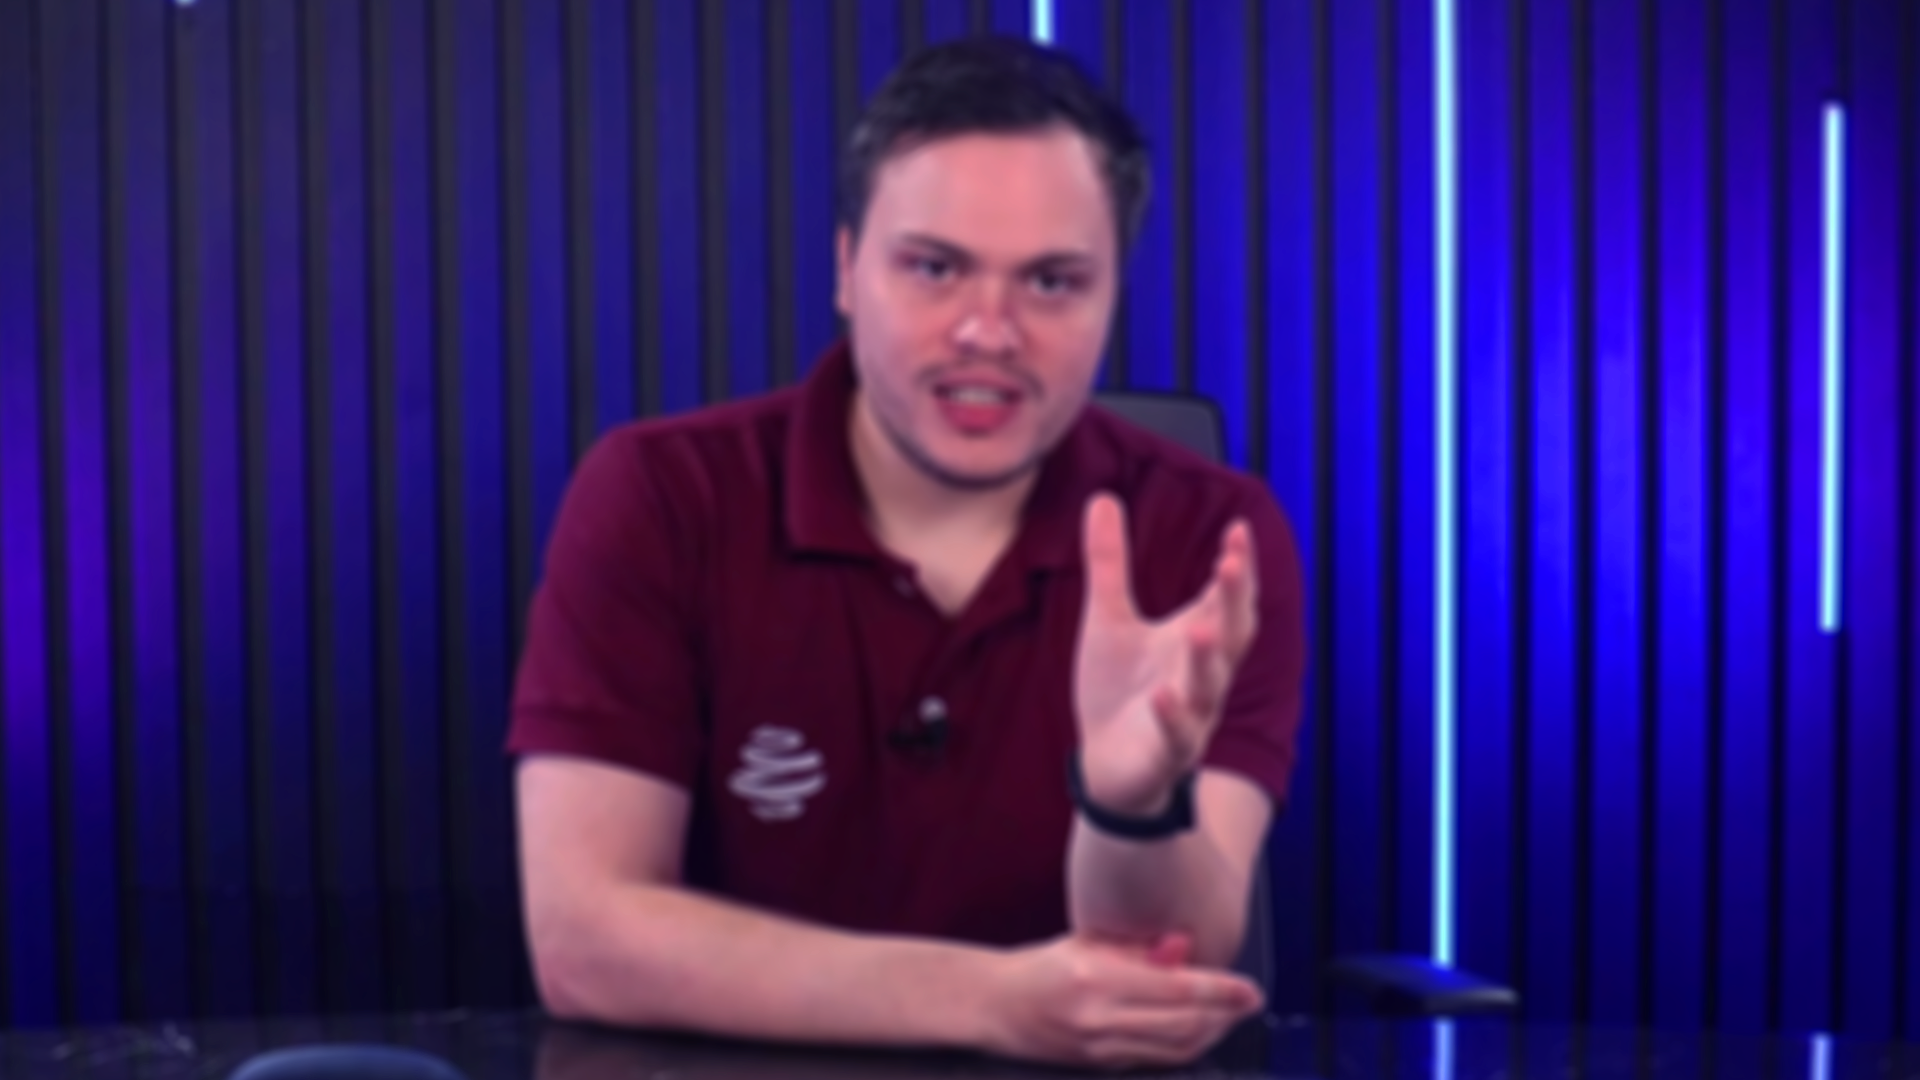
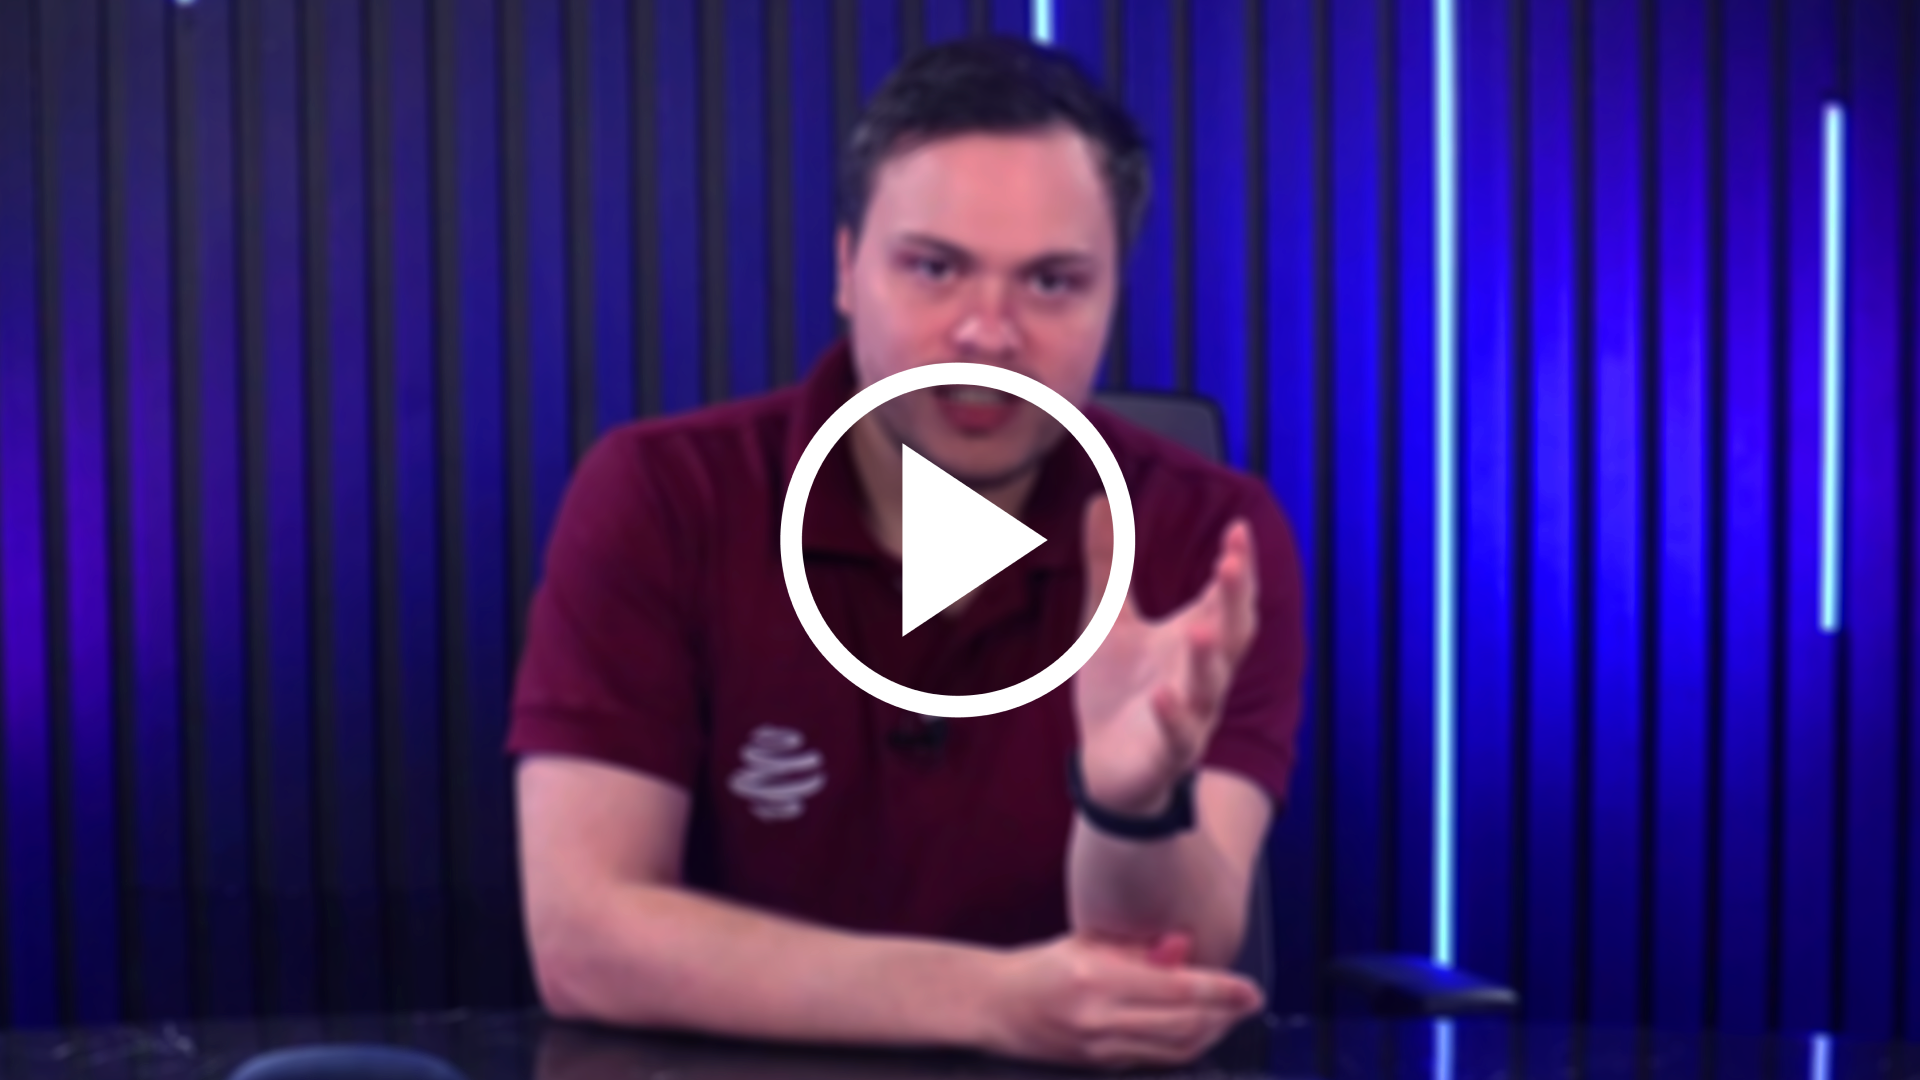
change

Changed region(s): [[0.4062, 0.3361, 0.5938, 0.6722]]

diff --git a/app/components/Header/Header.tsx b/app/components/Header/Header.tsx
@@ -1,11 +1,12 @@
 "use client";
 import Logo from "@/app/components/Logo";
 import Image from "next/image";
-import { useState } from "react";
+import { useRef, useState } from "react";
 import Bg from "../Bg";
 const vimeoUrl = "https://player.vimeo.com/video/865690031?h=2678665bdb";
 const Header = () => {
   const [videoLoaded, setVideoLoaded] = useState(false);
+  const refVideo = useRef<HTMLIFrameElement>(null);
   return (
     <header className="overflow-hidden pb-20 relative px-4 background-header h-fit flex flex-col items-center pt-[20px] isolate">
       <Bg
@@ -33,33 +34,8 @@ const Header = () => {
         </span>
       </h1>
       <div className="max-w-[700px] animation-h1 bg-white bg-opacity-10 rounded-xl isolate group overflow-hidden w-full relative aspect-video mt-6 grid">
-        {!videoLoaded && (
-          <div
-            role="status"
-            className="absolute top-1/2 left-1/2 -z-20 transform -translate-x-1/2 -translate-y-1/2"
-          >
-            <svg
-              aria-hidden="true"
-              className="w-12 h-12 text-gray-200 animate-spin dark:text-gray-600 fill-fuchsia-400"
-              viewBox="0 0 100 101"
-              fill="none"
-              xmlns="http://www.w3.org/2000/svg"
-            >
-              <path
-                d="M100 50.5908C100 78.2051 77.6142 100.591 50 100.591C22.3858 100.591 0 78.2051 0 50.5908C0 22.9766 22.3858 0.59082 50 0.59082C77.6142 0.59082 100 22.9766 100 50.5908ZM9.08144 50.5908C9.08144 73.1895 27.4013 91.5094 50 91.5094C72.5987 91.5094 90.9186 73.1895 90.9186 50.5908C90.9186 27.9921 72.5987 9.67226 50 9.67226C27.4013 9.67226 9.08144 27.9921 9.08144 50.5908Z"
-                fill="currentColor"
-              />
-              <path
-                d="M93.9676 39.0409C96.393 38.4038 97.8624 35.9116 97.0079 33.5539C95.2932 28.8227 92.871 24.3692 89.8167 20.348C85.8452 15.1192 80.8826 10.7238 75.2124 7.41289C69.5422 4.10194 63.2754 1.94025 56.7698 1.05124C51.7666 0.367541 46.6976 0.446843 41.7345 1.27873C39.2613 1.69328 37.813 4.19778 38.4501 6.62326C39.0873 9.04874 41.5694 10.4717 44.0505 10.1071C47.8511 9.54855 51.7191 9.52689 55.5402 10.0491C60.8642 10.7766 65.9928 12.5457 70.6331 15.2552C75.2735 17.9648 79.3347 21.5619 82.5849 25.841C84.9175 28.9121 86.7997 32.2913 88.1811 35.8758C89.083 38.2158 91.5421 39.6781 93.9676 39.0409Z"
-                fill="currentFill"
-              />
-            </svg>
-          </div>
-        )}
         <iframe
-          onLoad={() => {
-            setVideoLoaded(true);
-          }}
+          ref={refVideo}
           title="Vimeo Video"
           src={vimeoUrl}
           allow="fullscreen"
@@ -68,6 +44,26 @@ const Header = () => {
           allowFullScreen
           className="rounded-sm"
         />
+        {!videoLoaded && (
+          <div
+            onClick={() => {
+              setVideoLoaded(true);
+              if (refVideo.current) {
+                console.log('here')
+                var url = refVideo.current.src
+                refVideo.current.src = url + "&autoplay=1";
+              }
+            }}
+            className="absolute hover:scale-105 cursor-pointer transition-transform top-0 left-0 bg-slate-600 z-50 w-full h-full"
+          >
+            <Image
+              fill
+              src={"/bg_video.png"}
+              alt="Coelho medcof"
+              priority={true}
+            ></Image>
+          </div>
+        )}
       </div>
       <button className="bg-gradient-to-b cursor-pointer from-fuchsia-400 to-violet-500 hover:bg-gradient-to-l rounded-lg mt-10 shadow px-6 py-3 hover:scale-105 transition-all">
         <span className="text-white text-[18px] sm:text-[19px] md:text-[20px] lg:text-[20px] xl:text-[21px] 2xl:text-[22px]  font-normal font-inter leading-normal">

diff --git a/app/components/Ia/Ia.tsx b/app/components/Ia/Ia.tsx
@@ -21,11 +21,11 @@ const Ia = () => {
       </p>
 
       <div className="bg-slate-500 w-full max-w-[1024px] mt-10 grid justify-center lg:grid-cols-[300px_1fr_300px] grid-cols-[1fr] justify-items-center  grid-rows-[auto_auto_360px_auto_auto] lg:grid-rows-[360px_360px] gap-4 md:grid-cols-[300px_300px] md:grid-rows-[360px_360px_360px]">
-        <div className="card w-full bg-slate-400">a</div>
+        <div className="card w-full bg-slate-400">Estou fazendo ainda</div>
         <div className="card bg-slate-800 max-w-[300px] w-full row-start-3 md:row-start-2 md:col-span-2 lg:col-span-1 lg:row-span-2">b</div>
-        <div className="card  w-full bg-slate-400">c</div>
-        <div className="card w-full bg-slate-400">d</div>
-        <div className="card w-full bg-slate-400">e</div>
+        <div className="card  w-full bg-slate-400">Estou fazendo ainda</div>
+        <div className="card w-full bg-slate-400">Estou fazendo ainda</div>
+        <div className="card w-full bg-slate-400">Estou fazendo ainda</div>
       </div>
       <button className="bg-gradient-to-b cursor-pointer from-fuchsia-400 to-violet-500 hover:bg-gradient-to-l rounded-lg mt-10 shadow px-6 py-3 hover:scale-105 transition-all">
         <span className="text-white text-[18px] sm:text-[19px] md:text-[20px] lg:text-[20px] xl:text-[21px] 2xl:text-[22px]  font-normal font-inter leading-normal">
